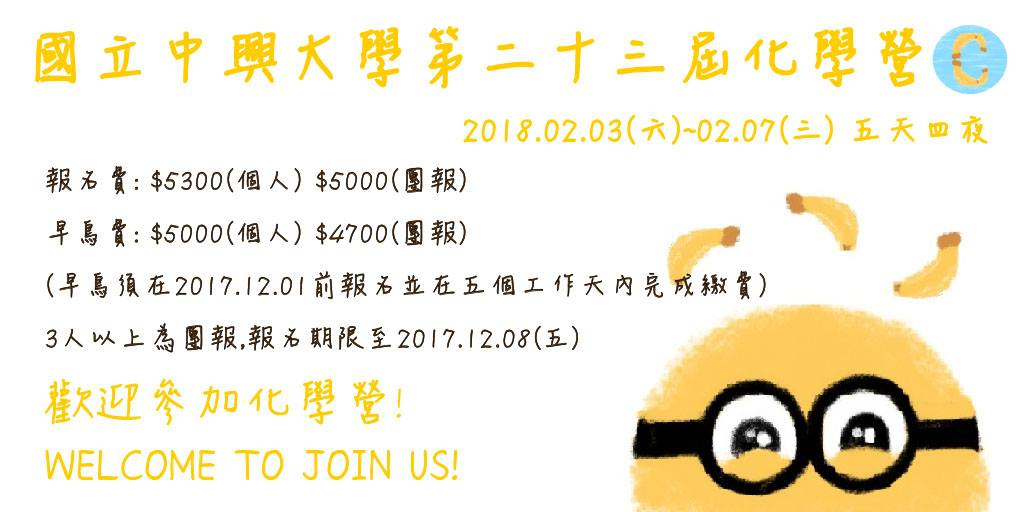
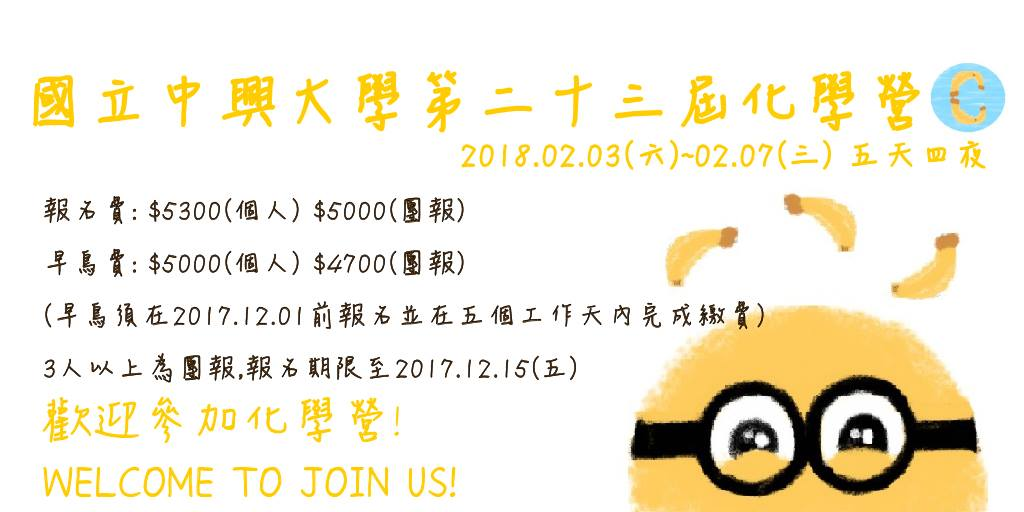
調整照片、最新消息

diff --git a/index.html b/index.html
@@ -254,7 +254,7 @@
                     <div class="caption"><span style="color: white;font-family:Microsoft JhengHei;text-shadow:3px 3px 3px #cccccc;">With</span></div>
                 </li>
                 <li>
-                    <a class="ns-img" href="img/3.png"></a>
+                    <a class="ns-img" href="img/3.jpg"></a>
                     <div class="caption"><span style="color: white;font-family:Microsoft JhengHei;text-shadow:3px 3px 3px #cccccc;">Us</span></div>
                 </li>
             </ul>
@@ -298,7 +298,7 @@
       			(2017/12/01前完成報名繳費)<br>
       			5.招生對象：全國高中職生<br>
       			6.名額：96人<br>
-      			7.報名期限：2017/12/8 (五) 23:59止<br>
+      			7.報名期限：2017/12/15 (五) 23:59止<br>
       			8.報名方式：詳見FB粉專或官網<br>
           </span>
         </div>
